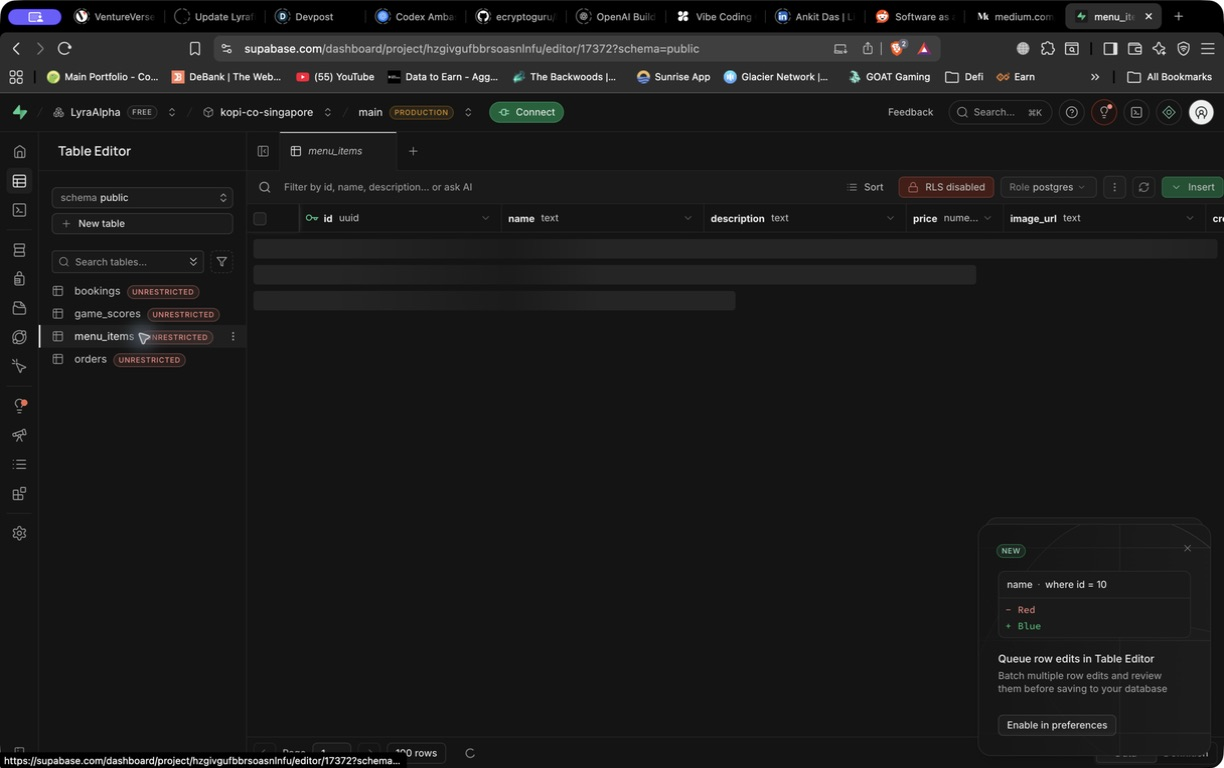
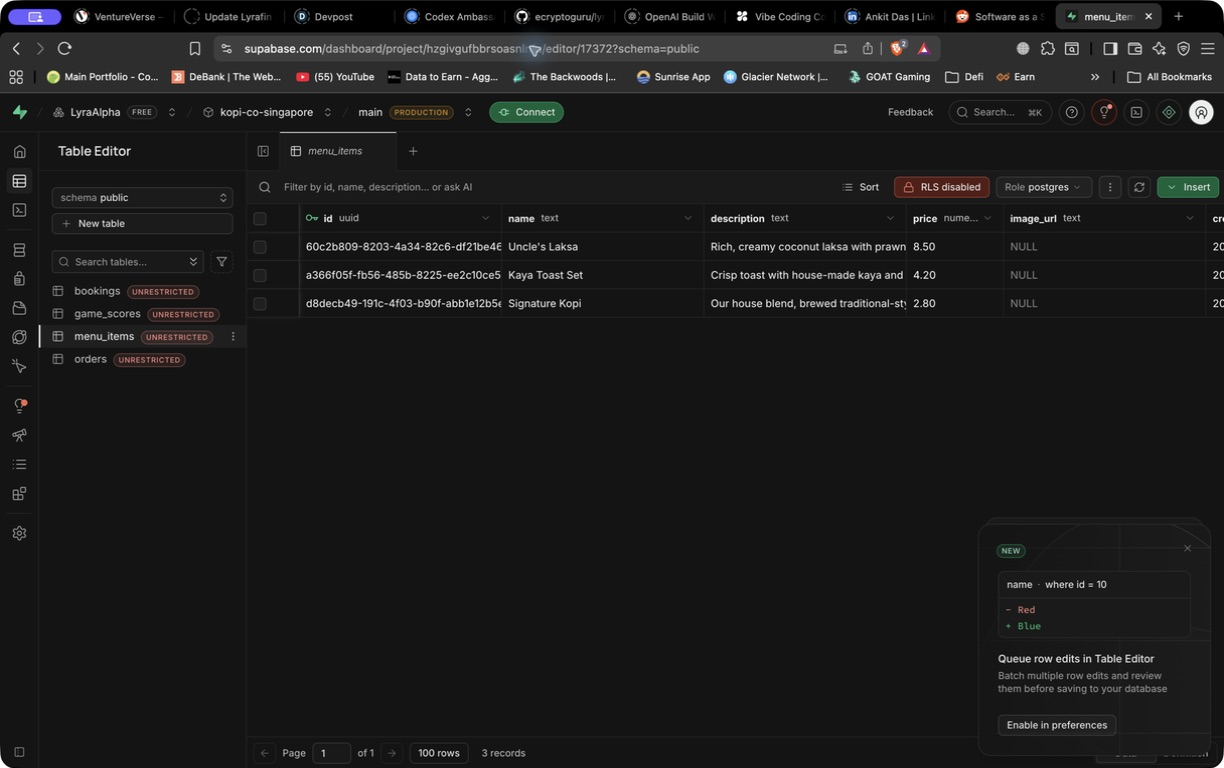
audit screenshot evidence

diff --git a/SCREENSHOT_MANIFEST.md b/SCREENSHOT_MANIFEST.md
@@ -21,16 +21,17 @@ Captured from the local app at `http://127.0.0.1:5173/` plus the deployed releas
 - `S3.5-confirmed.png` — booking confirmation
 - `S3.6.png` — staff admin
 - `S5.1-before.png`, `S5.1-after.png` — cart before/after
+- `S5.2.png`, `S5.3b.png` — GitHub/deployed release evidence
 - `S6.1b.png` — signed-in running game
 - `S6.2.png` — game over and personal best
-- `S6.3.png` — game interaction viewport capture (the transient score popup was not present at capture time)
+- `S6.3.png`, `S6.4.png` — game interaction and release evidence (the transient score popup was not present at capture time)
 - `brave-home.png`, `brave-menu.png`, `brave-about.png`, `brave-contact.png` — deployed public pages
 - `brave-contact-invalid.png` — deployed contact-form validation state
 - `brave-github.png` — GitHub repository page
 - `brave-supabase-singapore.png` — Supabase Table Editor for `kopi-co-singapore`
-- `brave-supabase-menu-table.png` — Singapore project `menu_items` table with 3 records
+- `brave-supabase-menu-table.png` — `S3.2a`, Singapore project `menu_items` table with 3 records
 - `brave-vercel-2fa-gate.png` — Vercel project access gate encountered in Brave (2FA setup prompt)
 
 ## Remaining desktop-only frames
 
-`S0.1`, `S0.2`, `S2.1a`, `S2.1b`, `S2.1d`, `S3.1`, `S3.2a`, `S3.2b`, `S5.3a`, and `S6.1a` are Codex desktop/MCP-specific frames and are not fabricated. `S5.2`, `S5.3b`, `S6.4`, and the provider screenshots listed above were captured or verified in browser sessions.
+`S0.1`, `S0.2`, `S2.1a`, `S2.1b`, `S2.1d`, `S3.1`, `S3.2b`, `S5.3a`, and `S6.1a` are Codex desktop/MCP-specific frames and are not fabricated. The remaining evidence is captured or verified in the browser sessions listed above.

diff --git a/outputs/SCREENSHOT_MANIFEST.md b/outputs/SCREENSHOT_MANIFEST.md
@@ -21,16 +21,17 @@ Captured from the local app at `http://127.0.0.1:5173/` plus the deployed releas
 - `S3.5-confirmed.png` — booking confirmation
 - `S3.6.png` — staff admin
 - `S5.1-before.png`, `S5.1-after.png` — cart before/after
+- `S5.2.png`, `S5.3b.png` — GitHub/deployed release evidence
 - `S6.1b.png` — signed-in running game
 - `S6.2.png` — game over and personal best
-- `S6.3.png` — game interaction viewport capture (the transient score popup was not present at capture time)
+- `S6.3.png`, `S6.4.png` — game interaction and release evidence (the transient score popup was not present at capture time)
 - `brave-home.png`, `brave-menu.png`, `brave-about.png`, `brave-contact.png` — deployed public pages
 - `brave-contact-invalid.png` — deployed contact-form validation state
 - `brave-github.png` — GitHub repository page
 - `brave-supabase-singapore.png` — Supabase Table Editor for `kopi-co-singapore`
-- `brave-supabase-menu-table.png` — Singapore project `menu_items` table with 3 records
+- `brave-supabase-menu-table.png` — `S3.2a`, Singapore project `menu_items` table with 3 records
 - `brave-vercel-2fa-gate.png` — Vercel project access gate encountered in Brave (2FA setup prompt)
 
 ## Remaining desktop-only frames
 
-`S0.1`, `S0.2`, `S2.1a`, `S2.1b`, `S2.1d`, `S3.1`, `S3.2a`, `S3.2b`, `S5.3a`, and `S6.1a` are Codex desktop/MCP-specific frames and are not fabricated. `S5.2`, `S5.3b`, `S6.4`, and the provider screenshots listed above were captured or verified in browser sessions.
+`S0.1`, `S0.2`, `S2.1a`, `S2.1b`, `S2.1d`, `S3.1`, `S3.2b`, `S5.3a`, and `S6.1a` are Codex desktop/MCP-specific frames and are not fabricated. The remaining evidence is captured or verified in the browser sessions listed above.